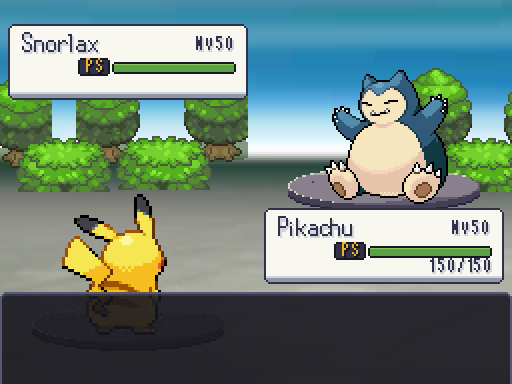
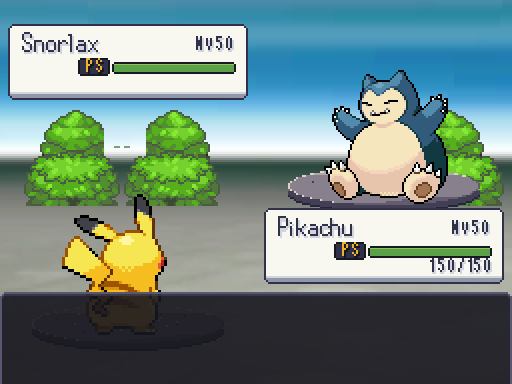
Recompone el fondo de ciudad para mostrar completos los árboles

Changed region(s): [[0.0, 0.2188, 0.5, 0.5625], [0.8125, 0.1562, 1.0, 0.5625]]

diff --git a/docs/ESTADO.md b/docs/ESTADO.md
@@ -4,6 +4,8 @@
 
 **Javier, referencia visual del 25 de octubre:** aportadas [7 capturas de Pokémon World Frontier](arte/referencias/javier_2026-10-25/README.md) para mejorar combate, edificios y composición. Leer [análisis y tareas por frente](arte/guia_world_frontier_2026-10-25.md) antes de la siguiente entrega visible. Ya hay 25 ambientes de combate; falta pulirlos y revisar su coherencia. Caso detectado: la terraza de Ayuso usa el decorado de sala interior de Madrid. La publicación aporta referencias y diagnóstico, no nuevos fondos terminados. [Edificios pendientes, recuento completo](arte/comparativas/edificios_pendientes_2026-10-25.md): 20 diseños integrados; 101 fuentes del inventario pendientes (84 piezas arquitectónicas y 17 monumentos), incluyendo el Guggenheim que no entraba en el recuento anterior de 100. Arte provisional. Comprobación del 25 de octubre: 771/771 pruebas, arte y datos sin errores ni avisos, 994 mapas conectados; 20 diseños en 27 colocaciones, sin recortes.
 
+**Corrección visual de ciudad (25 de octubre, Javier):** se recompone el fondo con tres grupos de árboles y arbustos completos, dentro del encuadre y fuera de las cajas de datos. [Antes y después, día y noche](arte/comparativas/ciudad_arboles_2026-10-25/README.md). Prueba de regresión sobre la pantalla real: fondos **12/12, 2.078 aserciones**. Suite completa: **772/772, 92191 aserciones, 627.637 s**. Arte: **11.606 PNG, 0 errores y 0 avisos**. Datos: **0 errores y 0 avisos**. Grafo: **994 mapas, todos alcanzables y con vuelta**. Fuentes y capturas sin cambios durante la suite. Los otros ambientes y la variante exterior de Madrid continúan pendientes de su revisión.
+
 **Cierre (2026-10-21, segunda sesión de agentes):** rutas y ciudades (corrientes de la marítima 1, obstáculos de campo, entrenadores en los pasos estrechos, atajos y segunda pasada a nivel Añil), combate y sistemas (Gigamax por especie, simplificaciones, validador sin avisos, IA de los líderes y combates de punta a punta), edificios (piezas urbanas, puerta del Bernabéu, parciales y gimnasios de Chamberí y Playa del Inglés) e interiores (las 93 casas de ruta, salas de dentro de 27 monumentos y el Bernabéu). Comprobación conjunta: **771/771 tests**, arte 11.606 PNG y datos sin errores ni avisos, **994 mapas conectados**. Qué hizo cada uno, qué queda y qué decide Javier: **[`CIERRE_2026-10-21.md`](CIERRE_2026-10-21.md)**.
 
 **Cierre anterior (2026-10-20, sesión de cuatro agentes):** interiores, edificios reales, combate y sistemas, y rutas y ciudades al nivel de Añil, todo integrado en `main`. Comprobación conjunta: **738/738 tests**, arte 11.570 PNG sin errores, datos 0 errores (1 aviso), **961 mapas conectados**. Qué hizo cada uno, qué queda y qué decide Javier: **[`CIERRE_2026-10-20.md`](CIERRE_2026-10-20.md)**. Sin reservas activas.

diff --git a/docs/arte/comparativas/ciudad_arboles_2026-10-25/README.md b/docs/arte/comparativas/ciudad_arboles_2026-10-25/README.md
@@ -1,0 +1,27 @@
+# Árboles del fondo de ciudad · 25 de octubre de 2026
+
+Javier señala los árboles cortados en la captura de Pikachu contra Snorlax. Se recompone `frente_ciudad` y se integra en el ambiente de ciudad existente; no se cambia el motor, la interfaz ni el resto de ambientes.
+
+## Causa y corrección
+
+La imagen de fondo mide 384×308 y se ve a ×2, desplazada (-128,-40). El encuadre de 512×384 solo enseña las columnas nativas 64–319. La composición anterior colocaba árboles que empezaban antes de la columna 64 o terminaban después de la 319. Además, varias copas quedaban detrás de la caja superior, dando un corte horizontal.
+
+Se han colocado **tres grupos completos de árboles y arbustos** dentro del encuadre y debajo de la caja superior. Se conservan los píxeles del pack, el fondo de ciudad, las bases y los tintes. La superposición natural del Pokémon rival delante del paisaje se mantiene. La comprobación del follaje corresponde a la composición normal de la captura que señaló Javier.
+
+El constructor admite ahora `--solo=frente_ciudad` para regenerar ese frente sin recomponer los otros fondos a partir de fachadas que han cambiado. [Registro de SHA-256](regeneracion.json): solo cambia `frente_ciudad.png`; el pack de árboles permanece idéntico. El capturador `--solo=ciudad` actualiza tanto día como noche.
+
+| Vista | Antes | Después |
+|---|---|---|
+| Combate de día, 512×384 | [Captura](dia_antes.png) | [Captura](dia_despues.png) |
+| Combate de noche, 512×384 | [Captura](noche_antes.png) | [Captura](noche_despues.png) |
+| Frente transparente completo | [PNG](frente_antes.png) | [PNG](frente_despues.png) |
+
+![Ciudad corregida, día](dia_despues.png)
+
+![Ciudad corregida, noche](noche_despues.png)
+
+## Comprobaciones
+
+**12/12 pruebas de fondos, 2.078 aserciones.** La nueva prueba instancia la pantalla real, toma la transformación del fondo y los rectángulos efectivos de las cajas, y comprueba que el follaje del PNG no queda fuera del encuadre ni debajo de las cajas de datos. También comprueba que la imagen anterior sí reproduce los dos recortes y que la corrección conserva follaje visible. No depende de repetir las coordenadas de la receta en el test.
+
+Suite completa: **772/772, 92191 aserciones, 627.637 s**. Arte: **11.606 PNG, 0 errores y 0 avisos**. Datos: **0 errores y 0 avisos**. Grafo: **994 mapas, todos alcanzables y con vuelta**. Fuentes y capturas sin cambios durante la suite. Arte provisional hasta la revisión de Javier. La mejora general de interfaz y la variante de terraza de Madrid siguen en la [guía World Frontier](../../guia_world_frontier_2026-10-25.md).

diff --git a/docs/arte/seguimiento.md b/docs/arte/seguimiento.md
@@ -768,3 +768,7 @@ Pruebas dirigidas 10/10; 32 puertas sin problemas. Arte 11.606 PNG sin errores n
 Siete originales de Javier guardados sin modificar, con manifest de tamaños y SHA-256. [Guía visual para Combate/interfaz, Edificios y Rutas/interiores](guia_world_frontier_2026-10-25.md). Los 25 ambientes ya existen; revisión visual pendiente, empezando por la terraza de Madrid y una muestra completa del Camp Nou. No se han redibujado fondos ni paneles en esta publicación.
 
 [Recuento de edificios](comparativas/edificios_pendientes_2026-10-25.md): 17 revisiones de las 137 fuentes originales, más finca de Chamberí, teatro y plató fuera de ese inventario: 20 diseños integrados, todos provisionales. Quedan 101 fuentes pendientes; el recuento anterior de 100 omitía el Guggenheim por su etiqueta distinta. Hórreo: boceto externo, sin integrar. Suite completa: **771/771 pruebas. 92.186 aserciones. 631.772 s**. Fondos: **11/11, 2.073 aserciones**. Arte: **11.606 PNG, 0 errores, 0 avisos**. Datos: **0 errores y 0 avisos**. Grafo: **994 mapas, todos alcanzables y con vuelta**. Las fuentes y las capturas no se han modificado durante la suite.
+
+### Árboles de ciudad corregidos · 25 de octubre de 2026
+
+Se recompone el frente del combate señalado por Javier: tres grupos completos de follaje, sin salir del encuadre ni quedar cortados por las cajas en la composición normal. Copias del pack intactas; solo cambia el frente de ciudad. [Antes y después, día y noche](comparativas/ciudad_arboles_2026-10-25/README.md). **Provisional, pendiente de revisión de Javier.** Pruebas de fondos 12/12. Suite completa: **772/772, 92191 aserciones, 627.637 s**. Arte: **11.606 PNG, 0 errores y 0 avisos**. Datos: **0 errores y 0 avisos**. Grafo: **994 mapas, todos alcanzables y con vuelta**. Fuentes y capturas sin cambios durante la suite.

diff --git a/docs/arte/comparativas/fondos_combate.md b/docs/arte/comparativas/fondos_combate.md
@@ -80,3 +80,7 @@ Momentos del día del fondo de hierba: `fondos_combate/hierba_morning.png`, `hie
 Javier aporta una [captura de combate de World Frontier](../referencias/javier_2026-10-25/combate_world_frontier.png). Pide mejorar el diseño dentro del combate y los ambientes. [Análisis y orden de trabajo](../guia_world_frontier_2026-10-25.md): campo continuo y legible, arquitectura y luz coherentes, paneles más cuidados y muestra con mensaje y cuatro acciones. Los 25 ambientes anteriores existen y sus pruebas pasan; este añadido no los declara redibujados.
 
 Desajuste detectado: la terraza `madrid/atico_ayuso` usa el mismo fondo interior y alfombra que las salas de Madrid; necesita una variante exterior. El nombre «Real Casa de Correos» de la escena también está desactualizado respecto a ese emplazamiento. Pendiente del siguiente bloque de Combate/interfaz.
+
+## Corrección de ciudad · 25 de octubre de 2026
+
+Javier detectó árboles cortados en los bordes y por la caja superior. Se recompone la distribución para que el follaje quede completo en el encuadre real de 512×384. [Antes y después de día y noche, causa y prueba de regresión](ciudad_arboles_2026-10-25/README.md). La composición anterior queda conservada; las capturas de ciudad de esta galería muestran ya la corrección. Fondos 12/12. La revisión completa del resto de escenas sigue pendiente.

diff --git a/docs/arte/guia_world_frontier_2026-10-25.md b/docs/arte/guia_world_frontier_2026-10-25.md
@@ -62,3 +62,7 @@ Conservar las reglas de combate, controles, equipos, lore y accesibilidad. No ha
 Suite completa: **771/771 pruebas. 92.186 aserciones. 631.772 s**. Fondos: **11/11, 2.073 aserciones**. Arte: **11.606 PNG, 0 errores, 0 avisos**. Datos: **0 errores y 0 avisos**. Grafo: **994 mapas, todos alcanzables y con vuelta**. Las fuentes y las capturas no se han modificado durante la suite.
 
 Se incorporan referencias y guía de trabajo. La mejora visual de fondos y paneles sigue pendiente; esta publicación no modifica el motor ni los gráficos del juego.
+
+## Corrección posterior del fondo de ciudad · 25 de octubre
+
+Tras la publicación de las referencias, Javier señala los árboles cortados en la captura de ciudad. [Corregida su distribución, con antes y después de día y noche](comparativas/ciudad_arboles_2026-10-25/README.md). Las copas caben en el encuadre y no quedan cortadas por las cajas en esa composición. Esta corrección concreta no sustituye el resto del bloque visual pendiente. Las comprobaciones de la publicación de referencias citadas arriba corresponden a `61e5bf95`; la corrección tiene su validación propia en la comparativa.
